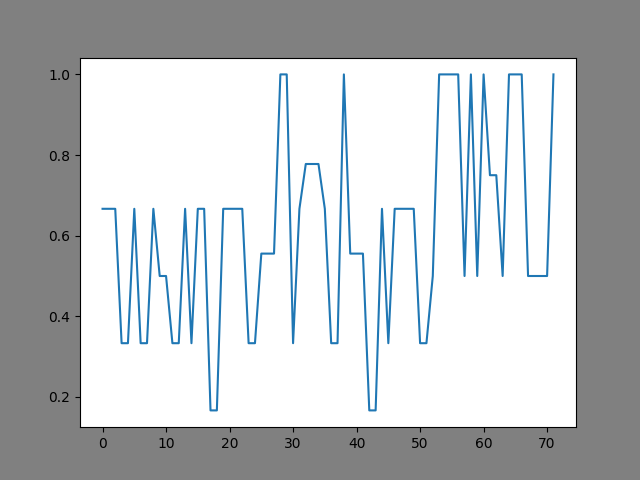
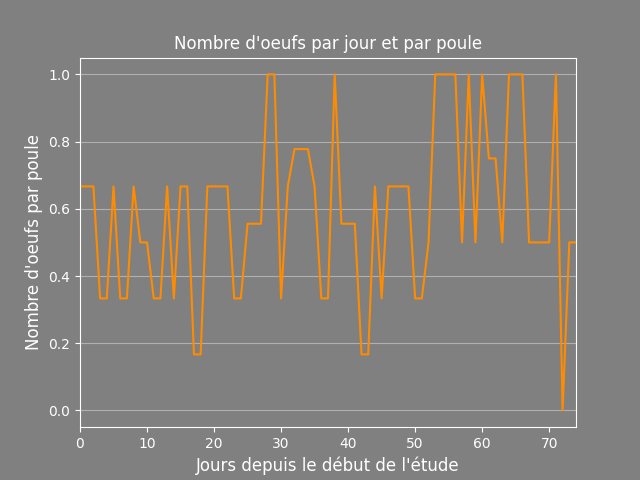
Tracé des courbes

diff --git a/main_file.py b/main_file.py
@@ -56,7 +56,7 @@ plt.subplots_adjust(top=0.85) # adjusting top position
 plt.hist(Eggs_weight, bins =(max(Eggs_weight)-min(Eggs_weight)), range = (min(Eggs_weight)-0.5, max(Eggs_weight)-0.5),density=True, color="darkorange", ec='white')
 plt.title(label="Distribution du poids des oeufs ramassés"+"\n poids moyen : "+str(Mean_weight)+ "g \n Dernière collecte le "+Mydata[len(Mydata)-1][0].strftime("%d/%m/%Y"),color='w')
 
-plt.xticks(range(min(Eggs_weight), max(Eggs_weight)))
+plt.xticks(range(min(Eggs_weight), max(Eggs_weight)), fontsize=8)
 plt.xlabel("Poids de l'oeuf (g)")
 
 # Changing the background properties of the graph
@@ -118,6 +118,48 @@ Daily_egg_per_hen		 	= Daily_nb_eggs/Daily_nb_hen
 
 # saving the result
 plt.figure(facecolor='grey') # defining background color
-plt.plot(Daily_egg_per_hen)
+plt.plot(Daily_egg_per_hen,color="darkorange")
+plt.title(label="Nombre d'oeufs par jour et par poule",color='w')
+plt.xlabel("Jours depuis le début de l'étude",color='w',fontsize=12)
+plt.ylabel("Nombre d'oeufs par poule",color='w',fontsize=12)
+plt.xlim(0,Total_duration-1)
+# Making a better figure
+Mygraph_func.make_better_graph()
+
 plt.savefig('./results/Eggs_per_hen.png') 
 
+# We now show the number of eggs and compare it with the maximum number of eggs (Number of hen)
+
+# saving the result
+plt.figure(facecolor='grey') # defining background color
+plt.plot(Daily_nb_hen,color="g", label="Maximum") # Maximum number of eggs
+plt.plot(Daily_nb_eggs,color="darkorange",label="Nombre d'oeufs")
+plt.title(label="Nombre d'oeufs",color='w',fontsize=16)
+plt.xlabel("Jours depuis le début de l'étude",color='w',fontsize=12)
+plt.ylabel("Nombre d'oeufs",color='w',fontsize=12)
+plt.xlim(0,Total_duration-1)
+plt.legend()
+# Making a better figure
+Mygraph_func.make_better_graph()
+
+plt.savefig('./results/Eggs_per_day.png') 
+
+# We now show the evolution of the average weight of the eggs
+
+Weight_of_eggs					= Daily_weight/Daily_nb_eggs
+
+# saving the result
+plt.figure(facecolor='grey') # defining background color
+plt.plot(Weight_of_eggs,color="darkorange")
+plt.title(label="Poid moyen des oeufs",color='w',fontsize=16)
+plt.xlabel("Jours depuis le début de l'étude",color='w',fontsize=12)
+plt.ylabel("Poid des oeufs",color='w',fontsize=12)
+plt.xlim(0,Total_duration-1)
+
+# Making a better figure
+Mygraph_func.make_better_graph()
+
+plt.savefig('./results/Average_daily_weight.png')
+
+# We add an average filter so as to have better results
+#TODO
